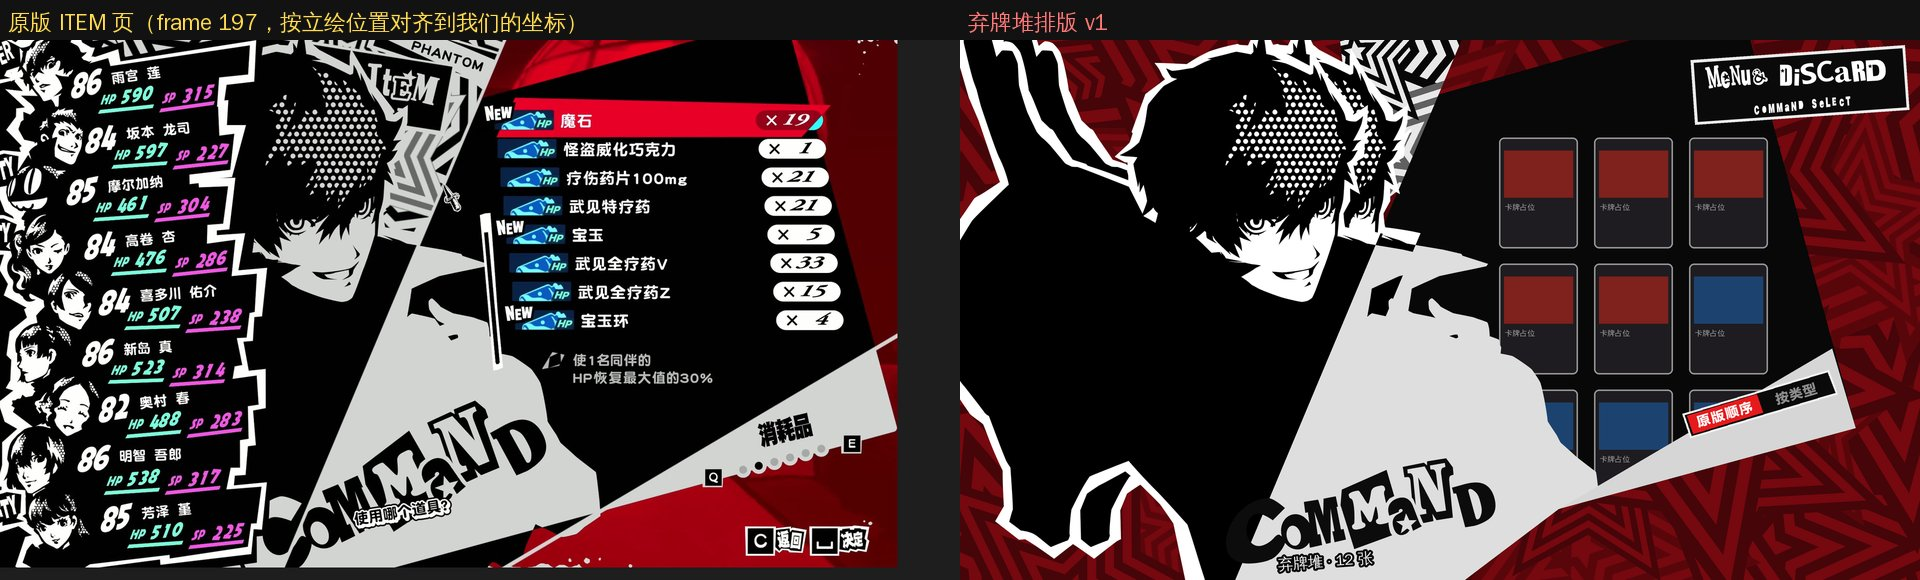
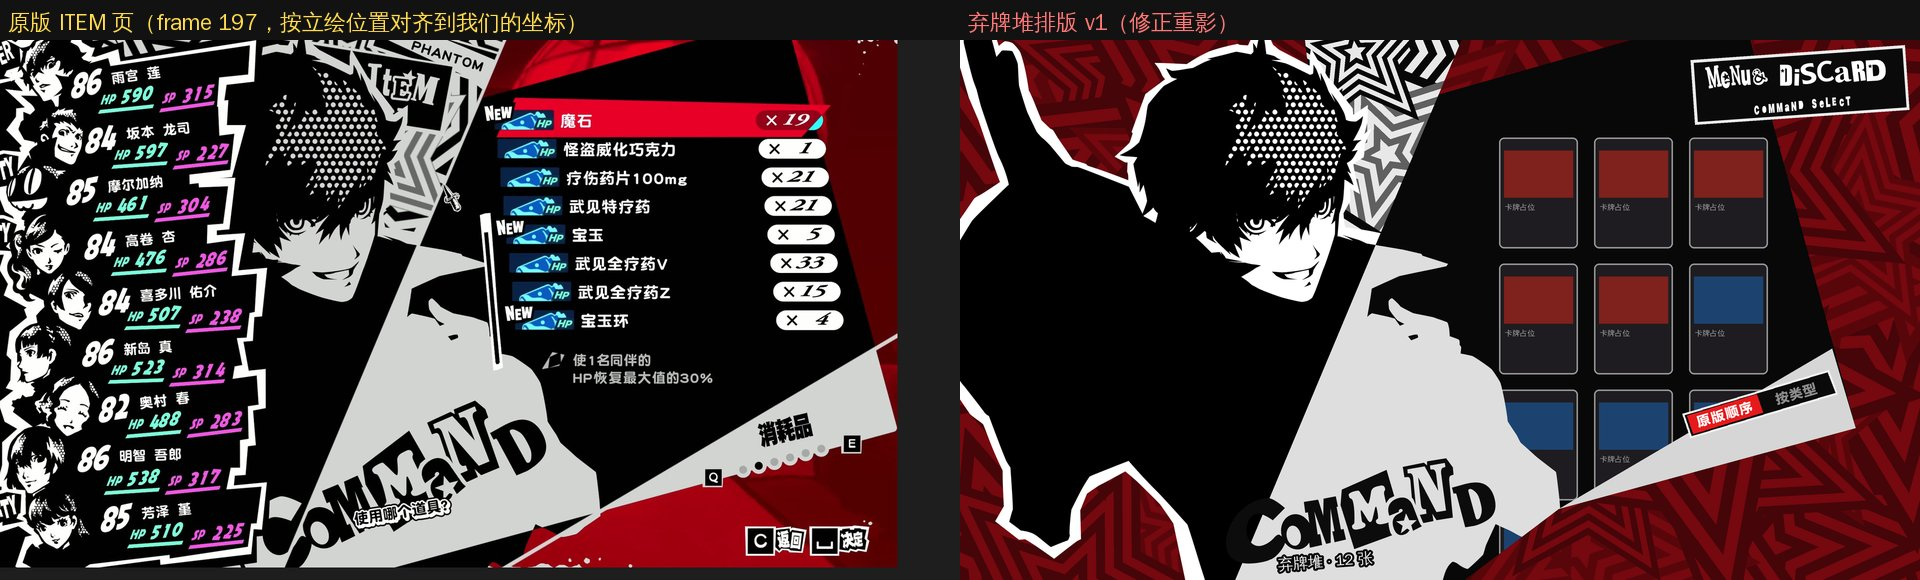
P5 pile: discard layout v1 - fix the doubled portrait (pasted twice, 80px apart) and tuck the star band behind the head
Claude-Session: https://claude.ai/code/session_01ATzkhKBUvnTpVZN33j1FHY

diff --git a/tools/p5/pile/mock_discard.py b/tools/p5/pile/mock_discard.py
@@ -38,7 +38,7 @@ def main(out):
     globals()['BAND'] = BAND
     # 3. 黑白星纹条：原版在头的右边、斜线左边（PHANTOM / ITEM 那块）
     st = stars(W * S, H * S, base=118, n=8)
-    band = [(760, 0), (lx(0), 0), (lx(300), 300), (800, 360)]
+    band = [(690, 0), (lx(0), 0), (lx(440), 440), (740, 440)]       # 左边塞到头发后面、下边一直到肩膀（原版星纹条被头 / 肩挡住，不露红缝）
     mk = Image.new('L', (W * S, H * S)); ImageDraw.Draw(mk).polygon([(x * S, y * S) for x, y in band], fill=255)
     st.putalpha(mk); cv.alpha_composite(st)
     # 3b. 弃掉的牌：3 列放进黑块（右边是原版那条斜边，4 列会伸到红底上）。先画牌、再画立绘和斜带：
@@ -65,10 +65,11 @@ def main(out):
     inv = np.clip(222 - lum * (214 / 255), 8, 230)           # 黑 → 214 浅灰，白 → 8 黑
     a2[right, :3] = inv[right][:, None]
     lay = Image.fromarray(a2.astype(np.uint8))
-    cv.alpha_composite(lay, (int(ART_AT[0] * S), int(ART_AT[1] * S)) if ART_AT[0] >= 0 else (0, int(ART_AT[1] * S)))
-    if ART_AT[0] < 0:   # 左边伸出屏幕的部分裁掉后再贴
-        cv2 = Image.new('RGBA', cv.size); cv2.alpha_composite(lay.crop((int(-ART_AT[0] * S), 0, lay.width, lay.height)), (0, int(ART_AT[1] * S)))
-        cv.alpha_composite(cv2)
+    # 只贴一次：左边伸出屏幕的部分先裁掉（之前这里先把没裁的整张贴在 x=0、再贴裁过的，立绘错开 80px 叠了两层 = 重影）
+    ox, oy = int(ART_AT[0] * S), int(ART_AT[1] * S)
+    if ox < 0:
+        lay = lay.crop((-ox, 0, lay.width, lay.height)); ox = 0
+    cv.alpha_composite(lay, (ox, oy))
     # 5. 右上标题牌 MeNu&DISCARD（原版 MeNu& 字图 + P5 字图 DISCARD + 原版 COMMAND SELECT）
     plate = Image.new('RGBA', (430 * S, 130 * S)); pd = ImageDraw.Draw(plate)
     pd.rectangle([0, 0, 430 * S, 130 * S], fill=(235, 235, 235)); pd.rectangle([6 * S, 6 * S, 424 * S, 124 * S], fill=(10, 10, 10))
